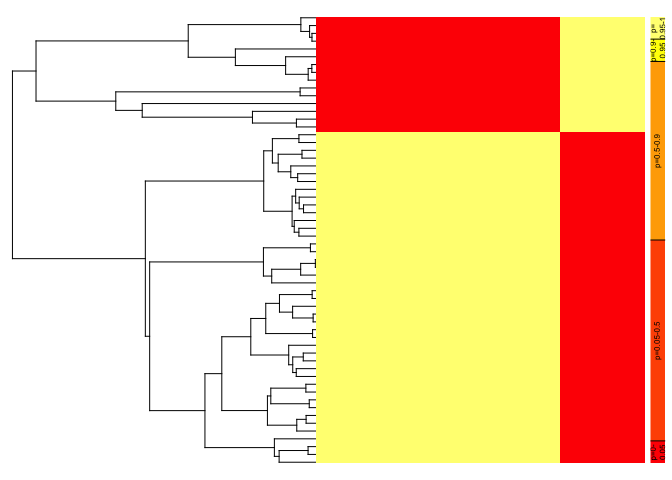
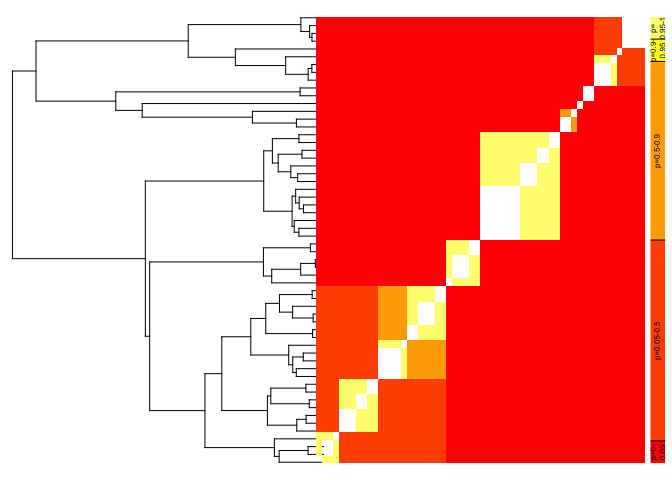
update readme

Changed region(s): [[0.4688, 0.0312, 0.9688, 0.9688]]

diff --git a/README.md b/README.md
@@ -24,12 +24,62 @@ You can install the development version from
 devtools::install_github("arleyc/sGMYC")
 ```
 
-## Example 1: subsampling from one tree
+## Example: full GMYC analysis vs. subsampling with sGMYC
+
+1)  Full analysis with bGMYC
 
 ``` r
 library(sGMYC)
 
 data("hypotree")
+
+library(bGMYC)
+#> Loading required package: ape
+#> 
+#> Attaching package: 'bGMYC'
+#> The following object is masked from 'package:sGMYC':
+#> 
+#>     spec.probmat
+
+fullgmyc<-bgmyc.singlephy(hypotree, mcmc=10000, burnin=2500, thinning=50)
+#> You are running bGMYC on a single phylogenetic tree.
+#> This tree contains  58  tips.
+#> The Yule process rate change parameter has a uniform prior ranging from  0  to  2 .
+#> The coalescent process rate change parameter has a uniform prior ranging from  0  to  2 .
+#> The threshold parameter, which is equal to the number of species, has a uniform prior ranging from  2  to  51 . The upper bound of this prior should not be more than the number of tips in your trees.
+#> The MCMC will start with the Yule parameter set to  1 .
+#> The MCMC will start with the coalescent parameter set to  0.5 .
+#> The MCMC will start with the threshold parameter set to  50 . If this number is greater than the number of tips in your tree, an error will result.
+#> Given your settings for mcmc, burnin and thinning, your analysis will result in  150  samples being retained.
+#> !!!!!!!!!!!!!!!!!!!!!!!!!!!!!!!!!!!!!!!!!!!!!!!!!!!!!!!!!!!!
+#> is.binary.tree() is deprecated; using is.binary() instead.
+#> 
+#> is.binary.tree() will be removed soon: see ?is.binary and update your code.
+#> !!!!!!!!!!!!!!!!!!!!!!!!!!!!!!!!!!!!!!!!!!!!!!!!!!!!!!!!!!!!
+#> 10 % 
+#> 20 % 
+#> 30 % 
+#> 40 % 
+#> 50 % 
+#> 60 % 
+#> 70 % 
+#> 80 % 
+#> 90 % 
+#> 100 % 
+#> acceptance rates 
+#>  py pc th 
+#>  0.8145 0.762 0.3514
+
+fullgmyc.probmat<-bGMYC::spec.probmat(fullgmyc)
+
+plot.bgmycprobmat(fullgmyc.probmat,hypotree)
+```
+
+<img src="man/figures/README-example1-1.png" width="100%" />
+
+2)  Subsampling with sGMYC
+
+``` r
 
 myres<-sGMYC(hypotree)
 #> Subsampling of tree 1, Done!
@@ -45,21 +95,14 @@ myres<-sGMYC(hypotree)
 
 #Calculate matrix of conspecificity probabilities
 
-myprobmat<-spec.probmat(myres)
+myprobmat<-sGMYC::spec.probmat(myres)
 
 #Plot heatmap of conspecificity probabilities
 
-library(bGMYC)
-#> Loading required package: ape
-#> 
-#> Attaching package: 'bGMYC'
-#> The following object is masked from 'package:sGMYC':
-#> 
-#>     spec.probmat
 plot.bgmycprobmat(myprobmat,hypotree)
 ```
 
-<img src="man/figures/README-example1-1.png" width="100%" />
+<img src="man/figures/README-example2-1.png" width="100%" />
 
 ``` r
 #Species delimitation with subsampling using multiple trees and computer cores
